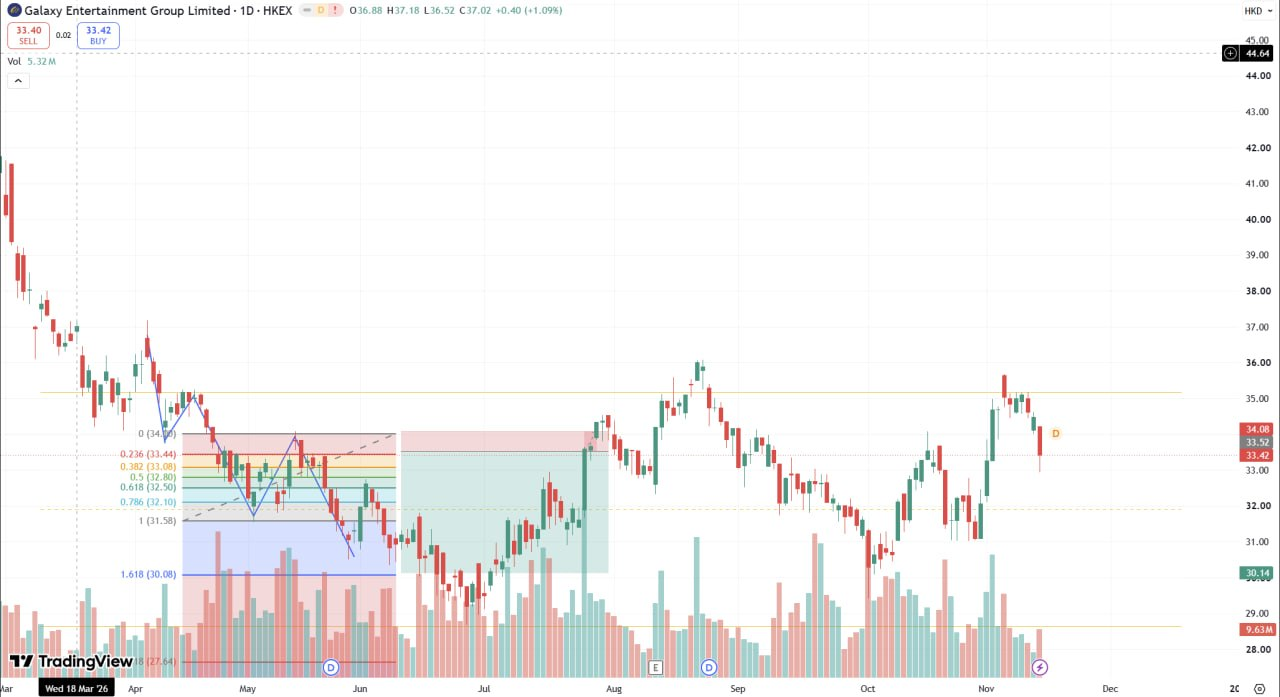
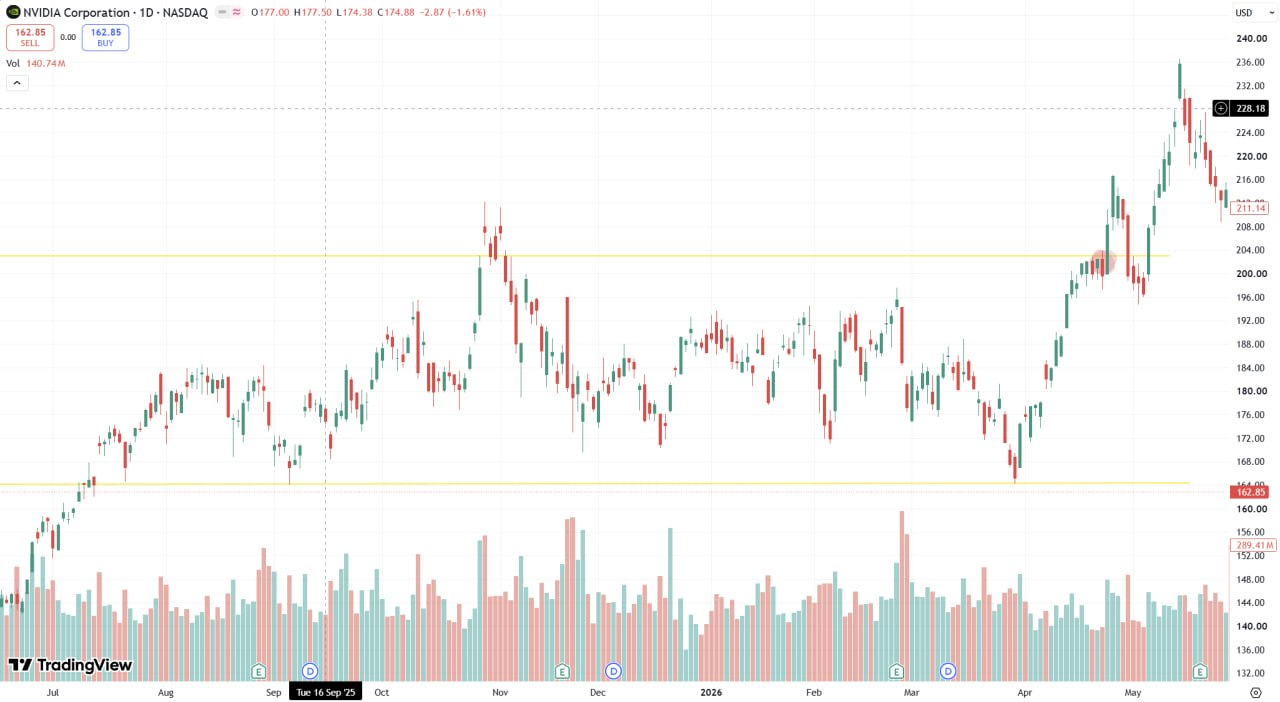
底部交易突破: 第 2 張換 NVIDIA
圖上冇印代號，Yahoo 對公司名 NVDA。黃線冇標價唔估。

Changed region(s): [[0.0, 0.0, 1.0, 1.0], [0.0, 0.0, 0.4375, 0.1205], [0.0312, 0.4218, 0.0625, 0.5122]]

diff --git a/底部交易突破/index.html b/底部交易突破/index.html
@@ -79,10 +79,10 @@
         </article>
 
         <article class="case-card">
-          <div class="case-header"><h3>02 · Galaxy Entertainment Group Limited</h3><span class="ticker">0027 · 1D · HKEX</span></div>
-          <div class="case-chart"><img src="../images/底部交易突破/02.jpg" alt="Galaxy Entertainment 1D" /></div>
-          <p>日線。十字線 Wed 18 Mar '26。Fib 讀到：0.236 (33.44)、0.382 (33.08)、0.5 (32.80)、0.618 (32.50)、0.786 (32.10)、1 (31.58)、1.618 (30.08)。0 嘅價被線遮住，延伸比例字被 logo 遮住（價 27.54 讀到，比例唔寫）。黃線冇標價。代號圖上冇印，Yahoo 對公司名：0027.HK。O36.88 H37.18 L36.52 C37.02 +0.40 (+1.09%)。Vol 5.32M。</p>
-          <div class="case-tags"><span>1D</span><span>HKEX</span><span>0027 圖上冇印</span></div>
+          <div class="case-header"><h3>02 · NVIDIA Corporation</h3><span class="ticker">NVDA · 1D · NASDAQ</span></div>
+          <div class="case-chart"><img src="../images/底部交易突破/02.jpg" alt="NVIDIA 1D NASDAQ" /></div>
+          <p>日線。軸 Jul 至 May，中間印 2026。十字線 Tue 16 Sep '25。兩條黃線冇標價。右軸標 228.18、211.14、164.00。代號圖上冇印，Yahoo 對公司名：NVDA。O177.00 H177.50 L174.38 C174.88 −2.87 (−1.61%)。Sell 162.85 / Buy 162.85。Vol 140.74M。</p>
+          <div class="case-tags"><span>1D</span><span>NASDAQ</span><span>NVDA 圖上冇印</span></div>
         </article>
 
         <article class="case-card">
